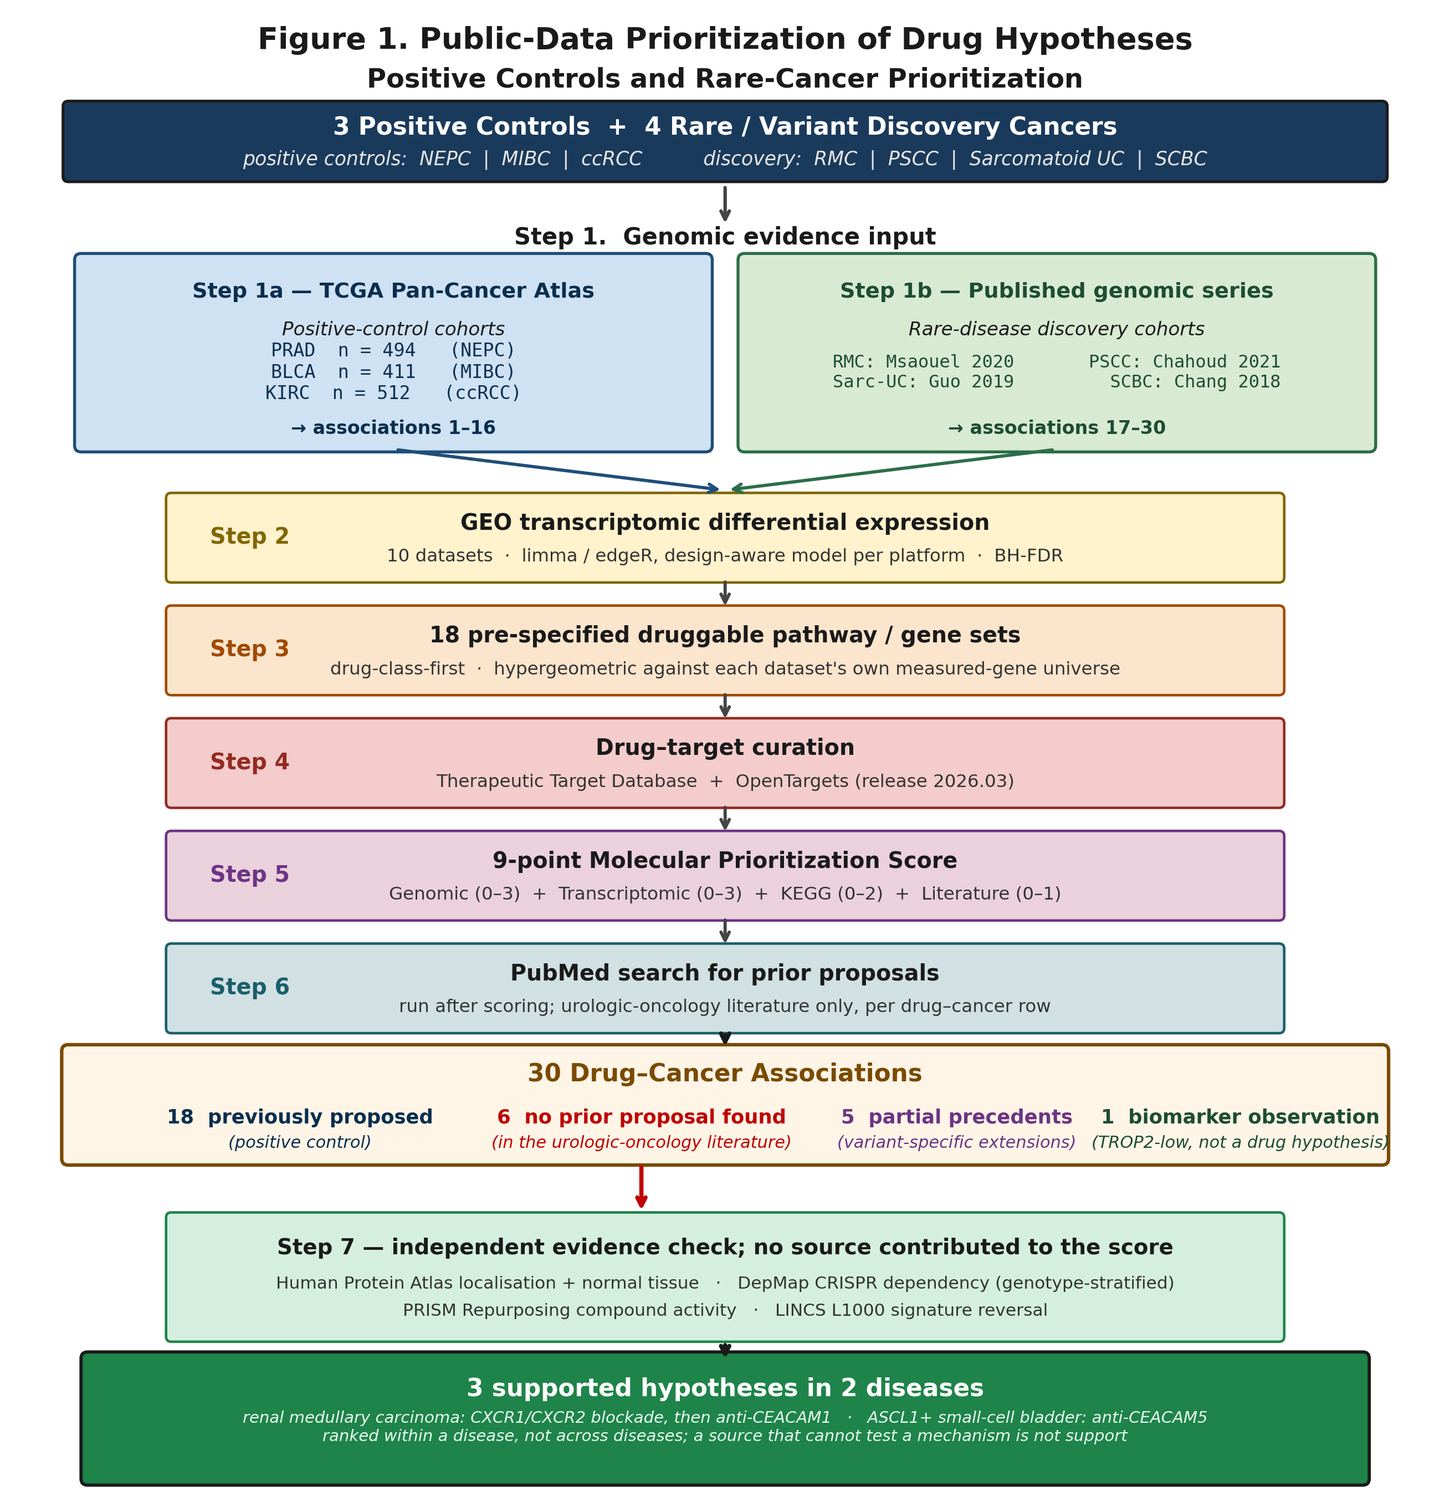
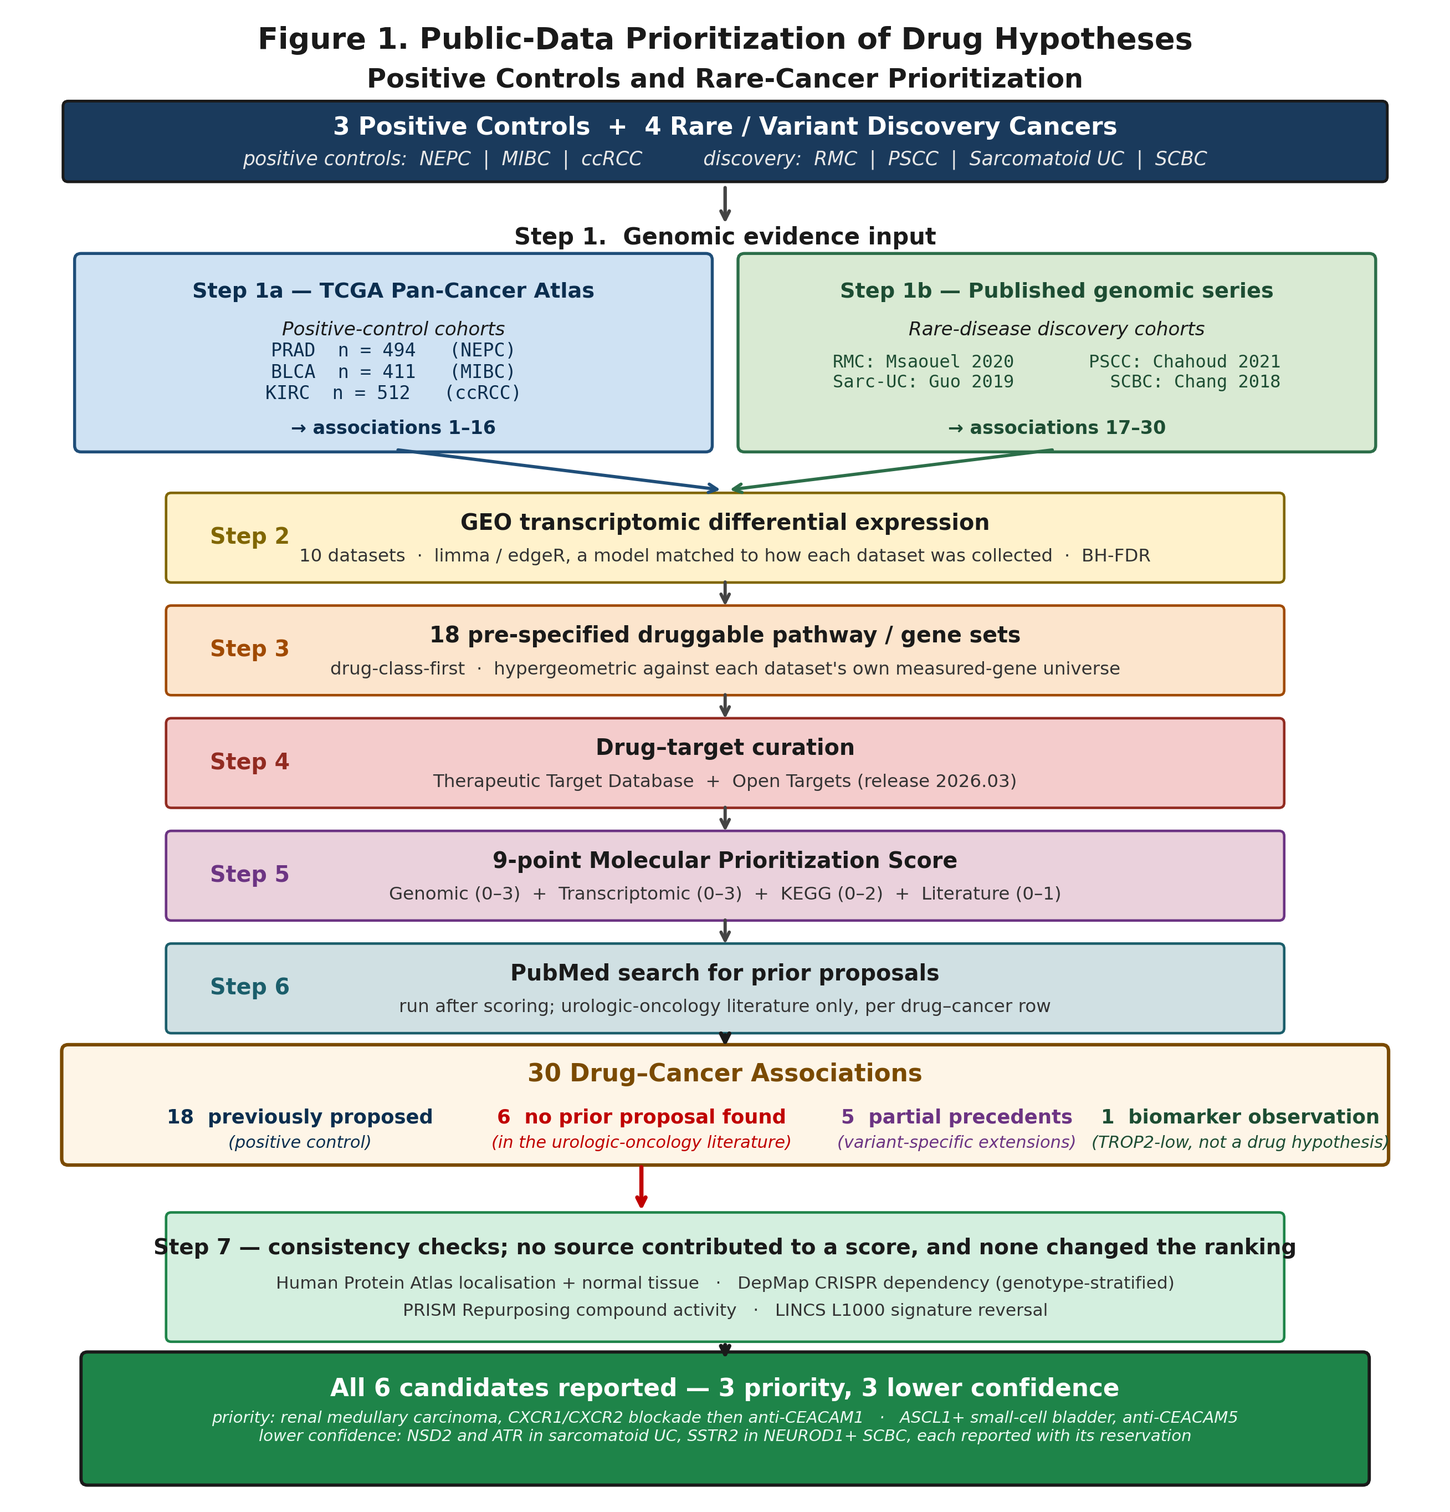
Argue for reporting all six in the Discussion; coherence pass
Discussion gains a paragraph making the case for the six-candidate framing
rather than leaving it implied. A reservation records what the available data
can support, not what is true of the biology: the SSTR2 row rests on a series
where subtype cannot be separated from batch, and both sarcomatoid rows on one
where histology is confounded with array chip. In cancers this rare, a
threshold that filters sensibly in a large cohort largely measures how little
data has been deposited, so discarding those rows would make the output look
tidier than the evidence is and would hide that the most clinically developed
agent in the table is still an open question.

The coherence pass then found the restructure had left the old design behind
in several places.

Figure 1 was the worst: its final box read "3 supported hypotheses in 2
diseases" directly beneath Step 7, so the figure showed the four sources
producing the shortlist. It now ends in all six candidates and Step 7 says it
scored and reranked nothing. Two older items fixed there too: "design-aware
model per platform" was the jargon flagged in review and never purged from
this figure, and OpenTargets is Open Targets everywhere else.

Methods still said "two of the three candidates the independent sources later
supported"; the Introduction still promised 3 treatment strategies; five uses
of "shortlist" named an output the paper no longer produces, one of them
[…]

diff --git a/code/pipeline/48_build_manuscript_v29.py b/code/pipeline/48_build_manuscript_v29.py
@@ -248,7 +248,8 @@ P('Against that background, aggressive and variant urologic histologies are '
 P('We therefore asked whether public molecular data could be interrogated '
   'systematically enough to prioritize biomarker-anchored drug hypotheses '
   'across several such cancers at once. We refer to the sequence of steps that '
-  'does this, from data retrieval to the final shortlist, as the pipeline; it '
+  'does this, from data retrieval to the ranked candidates, as the pipeline; '
+  'it '
   'is set out in Figure 1 and in the Methods. Three better-studied cancers are '
   'included deliberately as positive controls: neuroendocrine prostate cancer, '
   'muscle-invasive bladder cancer and clear cell renal cell carcinoma. These '
@@ -257,7 +258,7 @@ P('We therefore asked whether public molecular data could be interrogated '
   'whether the pipeline returns those priorities indicates how much weight to '
   'give its output in the four rare cancers. Two design choices make that '
   'comparison meaningful: every candidate was scored before any was classified as previously '
-  'proposed, and the rule that reduces candidates to a shortlist was written '
+  'proposed, and the rule that ranks the candidates was written '
   'before it was applied.')
 P(f"What is new here is not any single drug-cancer pair. Of the "
   f"{F['n_associations']} associations reported here, "
@@ -265,8 +266,10 @@ P(f"What is new here is not any single drug-cancer pair. Of the "
   f"is identified as such. What is new is a pipeline, built entirely from "
   f"public sources, that identifies therapeutic targets for repurposed drugs "
   f"across several cancers at once, with well-studied cancers run through it "
-  f"as positive controls. It also identified {F['funnel']['survive']} "
-  f"treatment strategies that may be worth investigating further.")
+  f"as positive controls. It also identified {F['n_framework_novel']} "
+  f"drug-cancer associations with no prior proposal in the urologic "
+  f"literature, {spell(F['funnel']['survive'])} of which meet every criterion "
+  f"we set.")
 
 H('MATERIALS AND METHODS')
 H('Data Sources', 11.5, 10, level=2)
@@ -317,8 +320,8 @@ P(f"The eighteen pre-specified gene sets were used to score candidates, not "
   f"antibody-drug conjugate or a radioligand. No pathway definition lists "
   f"such a target, because pathways group genes by the biology they take "
   f"part in rather than by whether an antibody can reach them from outside "
-  f"the cell. Two of the three candidates the independent sources later "
-  f"supported are among these seven.")
+  f"the cell. Two of the three candidates in the priority tier are among "
+  f"these seven.")
 P(f"This was a curated search rather than an exhaustive screen: the ranking "
   f"was a cut rather than a fixed threshold, and the search for an available "
   f"agent was manual and unlogged. A total of {F['funnel_entry']:,} "
@@ -353,10 +356,10 @@ P('Each association received 0 to 9 points across four dimensions: genomic '
   'and pathway values share an input, and in several rows the genomic value '
   'reflects an alteration that defines the disease rather than one in the '
   'nominated target. Totals map to Strong (7\u20139), Moderate (4\u20136) '
-  'and Exploratory (1\u20133) tiers, which express strength of evidence '
+  'and Exploratory (1\u20133) evidence tiers, which express strength of evidence '
   'within this framework only. Where a component could not be computed it is '
   'reported as not estimable, the total carries a smaller denominator, and the '
-  'row is not assigned a tier.')
+  'row is not assigned an evidence tier.')
 
 H('Prior-Proposal Classification', 11.5, 10, level=2)
 P('After scoring was complete, each association was classified on PubMed as '
@@ -442,7 +445,7 @@ P(f"The pipeline produced {F['n_associations']} drug-cancer associations "
   f"{F['tiers'].get('Moderate', 0)} Moderate and "
   f"{F['tiers'].get('Exploratory', 0)} Exploratory; five sarcomatoid "
   f"associations carry a smaller denominator for the reason given below and "
-  f"are not tiered.")
+  f"are not assigned an evidence tier.")
 
 H('Positive Controls', 11.5, 10, level=2)
 P(f"The three positive controls \u2014 neuroendocrine prostate cancer, "
@@ -484,7 +487,7 @@ P(f"Lineage-stratified small-cell bladder cancer (Figure 3), classified by "
   f"therapeutic direction requires functional testing: in the tuft-cell biology "
   f"this program is named for, prostaglandin signaling has been reported to "
   f"restrain rather than promote tumorigenesis [41]. The "
-  f"NEUROD1-positive somatostatin receptor 2 association does not survive: the "
+  f"NEUROD1-positive somatostatin receptor 2 association does not hold up: the "
   f"fold change reproduces ({de['SSTR2_neurod1']['log2FC']:+.2f}) but it does "
   f"not reach significance under a batch-adjusted subtype contrast "
   f"(q = {de['SSTR2_neurod1']['q']:.3f}), and the neuroactive ligand-receptor "
@@ -503,8 +506,8 @@ P(f"The sarcomatoid series is reported in full in the Supplementary Results "
   f"sarcomatoid tumors, which the confounding does not reach: UHRF1 [43], NSD2 "
   f"and G6PD [44] are highly abundant there and ATR is not. The pathway "
   f"component is not estimable for this context, so these rows total out of 7 "
-  f"rather than 9 and carry no tier, and neither of the two candidates without "
-  f"a prior proposal reached the shortlist. TROP2 is reported there as an "
+  f"rather than 9 and carry no evidence tier, and neither of the two candidates without "
+  f"a prior proposal reached the priority tier. TROP2 is reported there as an "
   f"observation for an independent cohort, not as a predictive biomarker, and "
   f"carries no score [45\u201347].")
 
@@ -512,7 +515,7 @@ P(f"Penile squamous cell carcinoma is reported in the Supplementary Results "
   f"rather than here. In brief, it showed a dominant immune-hot phenotype that "
   f"converges on the established pembrolizumab priority [48\u201350], with "
   f"two partially-novel candidates alongside it [51\u201353]; none of its "
-  f"associations reached the shortlist.")
+  f"associations was without a prior proposal.")
 H('Consistency Checks', 11.5, 10, level=2)
 P('Most associations are nominated from transcript abundance, which shows only '
   'that a gene is switched on, not that the cell depends on it or that its '
@@ -655,11 +658,25 @@ P('Computational repurposing from public expression data is an established '
   'but the application of this class of method to cancers whose cohorts are '
   'too small for one, together with positive controls run through the same '
   'pipeline and an explicit account of what the approach could not establish.')
-P(f"Two candidates fell to the lower tier once replicate structure and batch "
+P(f"Two candidates fell to the lower-confidence tier once replicate structure "
+  f"and batch "
   f"were included in the models: the somatostatin receptor 2 row, which had "
   f"been the most clinically developed candidate in the table, and the ATR "
   f"row. An analysis that reused the deposited summary statistics instead of "
-  f"refitting the primary data would have carried both forward.")
+  f"refitting the primary data would have placed both in the priority tier.")
+
+P(f"We report all {F['n_framework_novel']} rather than only the "
+  f"{spell(F['funnel']['survive'])} that met every criterion. A reservation "
+  f"records what the available data can support, not what is true of the "
+  f"biology: the somatostatin receptor 2 row rests on a series in which "
+  f"subtype cannot be cleanly separated from batch, and both sarcomatoid rows "
+  f"on the confounded series described below. In cancers this "
+  f"rare, a threshold that would filter sensibly in a large cohort largely "
+  f"measures how little data has been deposited. Discarding these rows would "
+  f"make the output look tidier than the evidence is, and would conceal that "
+  f"the most clinically developed agent in the table remains an open question. "
+  f"Reporting them with the reservation attached lets a reader who obtains a "
+  f"better cohort take them further.")
 P(f"Two things bound what these results mean. Recovery of the "
   f"{F['n_previously_proposed']} previously proposed priorities is a positive "
   f"control rather than independent validation, because prior knowledge "
@@ -696,7 +713,7 @@ P(f"Our study has limitations, and most are bounded by what is public. The "
 
 P(f"One further limitation follows from how candidates were selected. A gene "
   f"had to clear the transcriptomic entry rule to be considered at all, and we "
-  f"deliberately kept the list of genes carried forward short. A real target "
+  f"deliberately kept the list of genes we analyzed short. A real target "
   f"that falls short of significance in a small cohort is therefore never "
   f"nominated; proteasome inhibition in renal medullary carcinoma [63] is one "
   f"such candidate. Further work could extend the search to the less "
@@ -764,8 +781,8 @@ P('All datasets used are publicly available without restriction. Genomic '
 # =====================================================================
 FIGURES = [
     ('Figure1_pipeline.png', 6.5,
-     'Figure 1. The pipeline, from context definition to the supported '
-     'hypotheses. Steps 1 to 6 build the association table: genomic '
+     'Figure 1. The pipeline, from context definition to the ranked '
+     'candidates. Steps 1 to 6 build the association table: genomic '
      'input from The '
      'Cancer Genome Atlas for the three positive controls and from published '
      'series for the four rare or variant contexts; differential expression '
@@ -774,9 +791,10 @@ FIGURES = [
      'pre-specified druggable pathway or gene sets, compared against only the '
      'genes that dataset measured; drug-target curation; a 9-point prioritization '
      'score; and a PubMed search for prior proposals, run only after '
-     'scoring was complete. Step 7 is the independent evidence check, whose four sources '
-     'contributed nothing to any score. The shortlist is produced by a rule '
-     'fixed before it was applied.'),
+     'scoring was complete. Step 7 is the consistency check, whose four '
+     'sources contributed nothing to any score and changed no ranking. '
+     'Candidates are ranked by a rule fixed before it was applied; none is '
+     'discarded.'),
     ('Figure2_RMC.png', 6.9,
      'Figure 2. Renal medullary carcinoma. (A) Effect in RMC-2C against effect '
      'in RMC219 for every gene measured in both lines. The genome-wide '
@@ -793,7 +811,8 @@ FIGURES = [
      'composition by lineage transcription factor. (B) The nominated target in '
      'each subtype with its q-value from the batch-adjusted subtype contrast; '
      'somatostatin receptor 2 in NEUROD1-positive tumors does not reach '
-     'significance, which is why that association does not enter the shortlist. '
+     'significance, which is why that association sits outside the priority '
+     'tier. '
      '(C) Proposed lineage-stratified therapeutic hypotheses. CEACAM5 and '
      'somatostatin receptor 2 are cell-surface targets; PTGS1/COX-1 is an '
      'intracellular enzyme on the endoplasmic reticulum, shown as a candidate '
@@ -925,7 +944,7 @@ P('Every association is accounted for in one class. The complete table, with all
 
 t = doc.add_table(rows=1, cols=6)
 t.style = 'Table Grid'
-hdr = ['#', 'Context', 'Drug / target', 'Score \u00b7 tier', 'Status',
+hdr = ['#', 'Context', 'Drug / target', 'Score \u00b7 evidence tier', 'Status',
        'Required next step']
 for c, h in zip(t.rows[0].cells, hdr):
     c.text = ''
@@ -1014,7 +1033,7 @@ for ctxs, label in ((('NEPC',), 'Neuroendocrine prostate'),
               f'elsewhere',
               '; '.join(f'{v} {k}' for k, v in _sc.most_common())),
              ', '.join(f'{v} {k}' for k, v in tiers_here.items()),
-             'positive control', 'not carried forward as discovery'])
+             'positive control', 'not a discovery candidate'])
 
 # previously proposed priorities arising in the rare or variant contexts
 rare_recovery = merged[merged['N'].isin([18, 20])]

diff --git a/code/pipeline/52_build_supplementary_methods_v29.py b/code/pipeline/52_build_supplementary_methods_v29.py
@@ -69,7 +69,8 @@ P('What the cohort does support is how abundant a transcript is within the '
   'comparison ruled out above, so it is reported as not estimable, and these '
   'rows carry a total out of 7 rather than 9 without a tier.')
 P('Neither sarcomatoid candidate without a prior urologic-oncology proposal '
-  'reached the shortlist. NSD2 scores 3 of the 7 points its cohort can support '
+  'reached the priority tier; both are reported with the reservation against '
+  'each. NSD2 scores 3 of the 7 points its cohort can support '
   'and is contradicted outright by an independent source, since CRISPR screens '
   'show that urothelial cells do not require NSD2 even where they express it '
   'most highly. ATR scores 1, its abundance falling below the top 15% of '
@@ -184,7 +185,7 @@ P('Penile squamous cell carcinoma showed a dominant immune-hot phenotype. '
   'signal survives modelling the six normal arrays as three donors rather than '
   'six independent samples, which is the more demanding test. None of its '
   'three associations was classified as having no prior urologic-oncology '
-  'proposal, so none entered the shortlist rule.')
+  'proposal, so none is among the candidates ranked in the manuscript.')
 
 H('S4. How each association was nominated')
 P('The two nomination routes are drawn per gene in Supplementary Figure S2. '
@@ -492,7 +493,7 @@ P('Counts are rows of the fitted table, which are probes on the two array '
   'scored on the absolute-expression arm. Per-unit notes are in the deposited '
   'file.')
 
-H('8. Orthogonal evidence audit')
+H('8. Consistency checks')
 P('Four sources that took no part in scoring were interrogated after the table '
   'was fixed. They constitute an audit rather than a validation: each can find a '
   'candidate wanting, none can establish that a candidate works, and each is '
@@ -524,9 +525,10 @@ P('Two interpretive rules were fixed in advance. A tumor-cell monoculture '
   'counts as neither support nor contradiction.')
 
 H('9. Candidate selection rule')
-P('The rule was fixed before it was applied, and every exclusion in the '
-  'manuscript is attributable to a named criterion. Eligibility requires all '
-  'four of: E1, no prior urologic-oncology proposal identified by the audit; '
+P('The criteria were fixed before they were applied. They rank candidates and '
+  'do not remove them: a candidate that fails one is reported with that '
+  'reservation stated rather than dropped, so every candidate without a prior '
+  'proposal appears in the manuscript. The priority tier requires all four of: E1, no prior urologic-oncology proposal identified by the audit; '
   'E2, a total of 4 or better out of the points that are estimable for that '
   'row; E3, a transcriptomic component re-derivable from deposited data that '
   'meets its own arm\u2019s standard, which is q < 0.05 where a '
@@ -539,14 +541,15 @@ P('Two points about E2 and E3 follow from the scoring. A row whose pathway '
   'one the row was never eligible for. E3 applies each arm\u2019s own '
   'standard rather than a single q-value test, because a row scored on '
   'abundance has no q-value and must not fail for lacking one.')
-P('Support additionally requires that no independent source contradict the '
-  'candidate, and that target accessibility match the modality, so that a row '
-  'whose agent acts from outside the cell requires confirmed extracellular '
-  'access. The first-priority candidate within a disease additionally requires '
+P('The priority tier additionally requires that no independent source '
+  'contradict the candidate, and that target accessibility match the modality, '
+  'so that a row whose agent acts from outside the cell requires confirmed '
+  'extracellular access. Neither check moved any candidate: each one a source '
+  'argued against had already fallen to the lower tier on E2 or E3. The first-priority candidate within a disease additionally requires '
   'that the target itself belong to a pathway that is enriched, because an '
-  'enrichment driven by other genes is not evidence for that target. The rule '
-  'identifies supported hypotheses but does not rank them across diseases. '
-  'Within a disease holding more than one supported candidate, candidates are '
+  'enrichment driven by other genes is not evidence for that target. The '
+  'criteria rank candidates within a disease but not across diseases. '
+  'Within a disease holding more than one priority candidate, candidates are '
   'ordered first by whether the nominated target belongs to an enriched '
   'pathway and then by total score. Normal-tissue bulk RNA is reported for '
   'orientation and safety planning and is not used as a comparative '

diff --git a/code/pipeline/12_generate_figures.py b/code/pipeline/12_generate_figures.py
@@ -107,7 +107,7 @@ def generate_figure1():
     unified_steps = [
         (4.62, 'Step 2',
          'GEO transcriptomic differential expression',
-         '10 datasets  ·  limma / edgeR, design-aware model per platform  ·  BH-FDR',
+         '10 datasets  ·  limma / edgeR, a model matched to how each dataset was collected  ·  BH-FDR',
          '#fff2cc', '#806600'),
         (3.74, 'Step 3',
          '18 pre-specified druggable pathway / gene sets',
@@ -115,7 +115,7 @@ def generate_figure1():
          '#fce5cd', '#a04a00'),
         (2.86, 'Step 4',
          'Drug–target curation',
-         'Therapeutic Target Database  +  OpenTargets (release 2026.03)',
+         'Therapeutic Target Database  +  Open Targets (release 2026.03)',
          '#f4cccc', '#922b21'),
         (1.98, 'Step 5',
          '9-point Molecular Prioritization Score',
@@ -189,7 +189,8 @@ def generate_figure1():
                                  boxstyle='round,pad=0.04',
                                  ec='#1e8449', fc='#d4efdf', linewidth=1.1))
     ax.text(5.50, -0.62,
-            'Step 7 — independent evidence check; no source contributed to the score',
+            'Step 7 \u2014 consistency checks; no source contributed to a score, '
+            'and none changed the ranking',
             ha='center', va='center', fontsize=9.3, weight='bold',
             color='#1a1a1a')
     ax.text(5.50, -0.90,
@@ -207,14 +208,15 @@ def generate_figure1():
     ax.add_patch(FancyBboxPatch((0.55, -2.42), 9.90, 0.94,
                                  boxstyle='round,pad=0.05',
                                  ec='#1a1a1a', fc='#1e8449', linewidth=1.4))
-    ax.text(5.50, -1.72, '3 supported hypotheses in 2 diseases',
+    ax.text(5.50, -1.72,
+            'All 6 candidates reported \u2014 3 priority, 3 lower confidence',
             ha='center', va='center', fontsize=10.5, weight='bold',
             color='white')
     ax.text(5.50, -2.02,
-            'renal medullary carcinoma: CXCR1/CXCR2 blockade, then anti-CEACAM1   '
-            '\u00b7   ASCL1+ small-cell bladder: anti-CEACAM5\n'
-            'ranked within a disease, not across diseases; a source that cannot test a '
-            'mechanism is not support',
+            'priority: renal medullary carcinoma, CXCR1/CXCR2 blockade then '
+            'anti-CEACAM1   \u00b7   ASCL1+ small-cell bladder, anti-CEACAM5\n'
+            'lower confidence: NSD2 and ATR in sarcomatoid UC, SSTR2 in NEUROD1+ '
+            'SCBC, each reported with its reservation',
             ha='center', va='center', fontsize=7.0, style='italic',
             color='#eafaf1')
 
